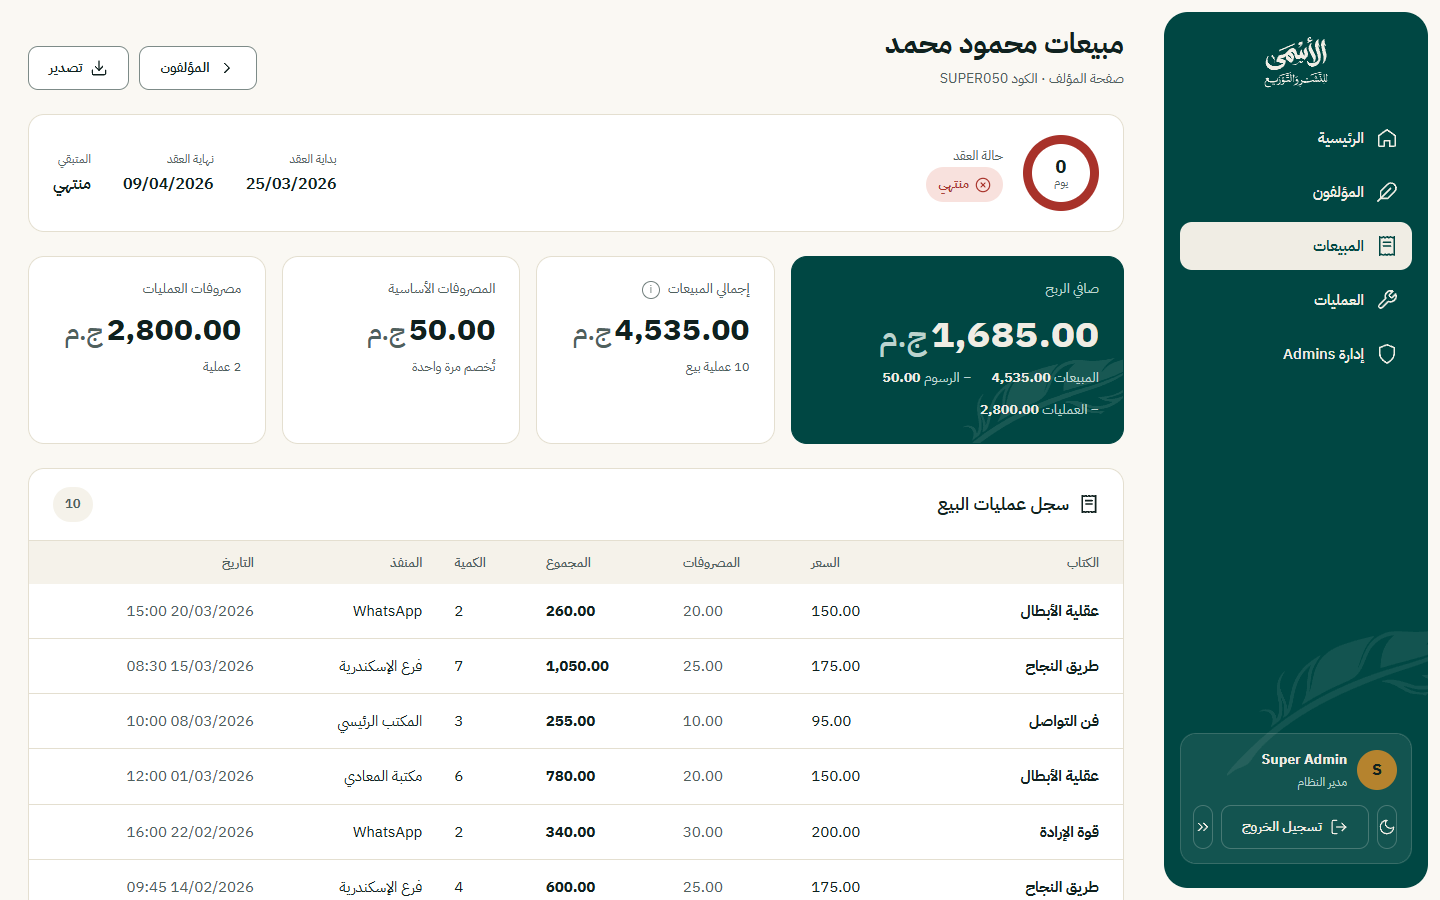
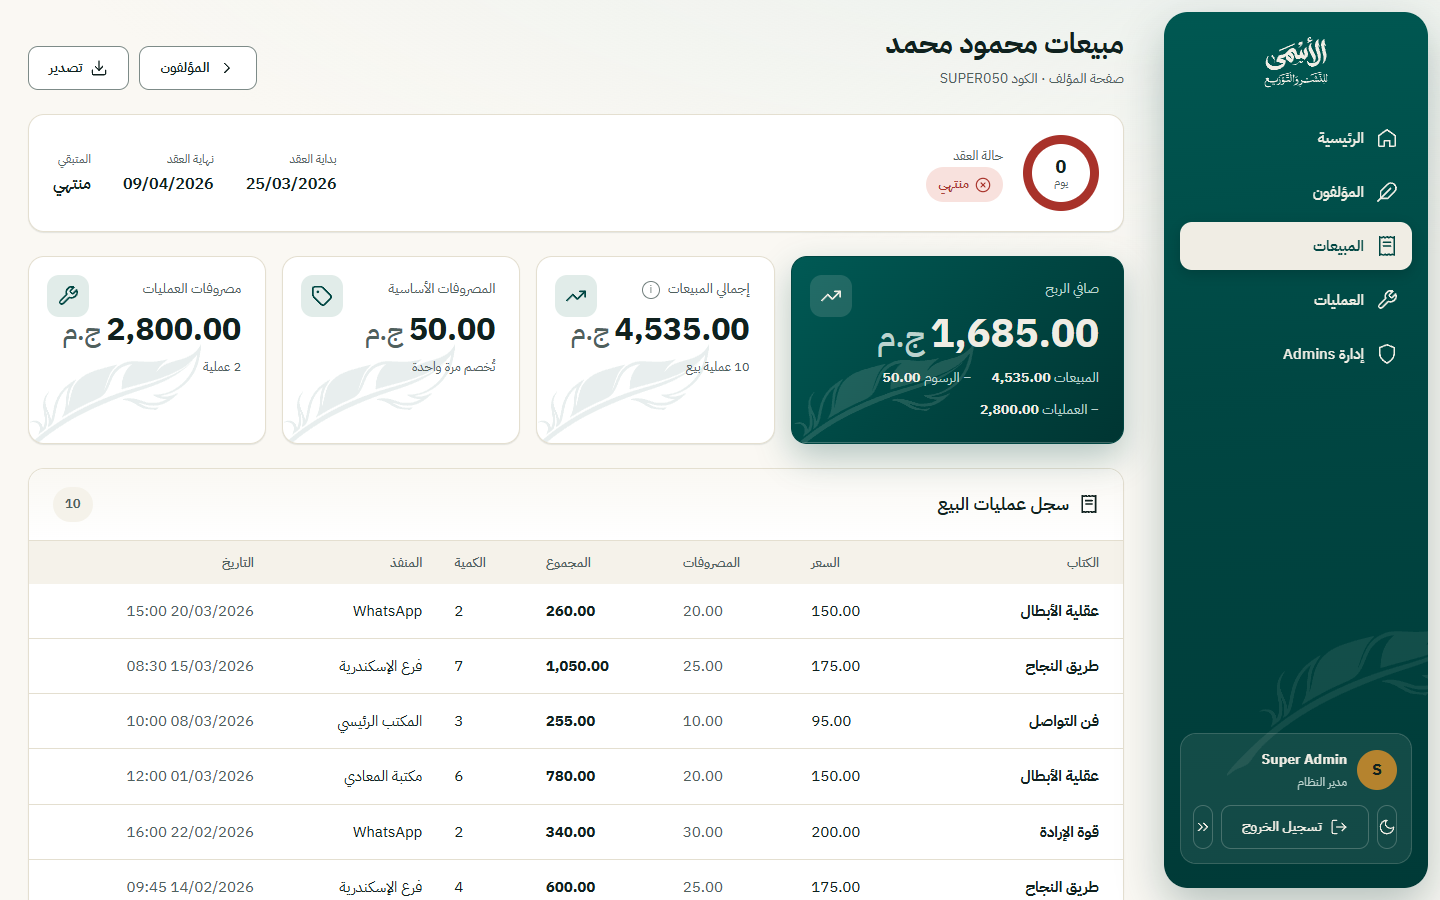
Fix mobile layout regressions, calmer dark mode and KPI feather watermark
- Login: narrow screens stacked correctly again (a later grid rule had
  overridden the mobile breakpoint).
- Phones: KPI cards no longer overflow or swipe sideways; values wrap with
  the currency; list cards are separate raised cards with spacing.
- Dark mode uses a neutral graphite palette with a faint green tint
  instead of saturated green surfaces.
- Every KPI card shows a transparent feather watermark at the bottom-left.
- Hero/loss KPI cards keep their gradient.
- Refresh README screenshots.

diff --git a/AlAsma.Admin/wwwroot/css/app.css b/AlAsma.Admin/wwwroot/css/app.css
@@ -24,7 +24,8 @@ table { border-collapse: collapse; width: 100%; }
 .mono { font-family: ui-monospace, "Cascadia Mono", Consolas, monospace; }
 .nowrap { white-space: nowrap; }
 .center { text-align: center; }
-.cur { font-size: .8em; font-weight: 500; color: var(--ink-muted); margin-inline-start: 4px; }
+.cur { font-size: .8em; font-weight: 500; color: var(--ink-muted); margin-inline-start: 4px; white-space: nowrap; }
+.kpi__value .cur { margin-inline-start: 0; }
 
 /* ---------- Shell ---------- */
 .app__main { min-height: 100vh; padding: 24px 28px 48px; margin-inline-start: calc(var(--sidebar-w) + 24px); }
@@ -180,7 +181,7 @@ form.inline { display: inline; margin: 0; }
 .kpi-grid--six { grid-template-columns: repeat(3, minmax(0, 1fr)); }
 .kpi { background: var(--surface); border: 1px solid var(--line); border-radius: var(--radius-lg); padding: 20px 24px; display: flex; flex-direction: column; gap: 8px; min-width: 0; }
 .kpi__label { font-size: 14px; color: var(--ink-muted); display: flex; align-items: center; gap: 8px; }
-.kpi__value { font: var(--text-kpi); font-variant-numeric: tabular-nums; white-space: nowrap; }
+.kpi__value { font: var(--text-kpi); font-variant-numeric: tabular-nums; display: flex; flex-wrap: wrap; align-items: baseline; gap: 0 6px; }
 .kpi__note { font-size: 13px; color: var(--ink-muted); }
 .kpi__note--ok { color: var(--success-ink); }
 .kpi__note--bad { color: var(--danger-ink); }
@@ -500,3 +501,82 @@ input:-webkit-autofill, input:-webkit-autofill:hover, input:-webkit-autofill:foc
   .auth__slogan { font-size: 20px; }
   .auth__features { display: none; }
 }
+
+/* ============================================================
+   Feedback pass (mobile fit, calmer dark mode, feather watermark)
+   ============================================================ */
+
+/* --- Feather watermark behind every KPI card (bottom-left, transparent) --- */
+.kpi { background-image: url("../images/brand/kpi-watermark-light.svg"); background-repeat: no-repeat; background-position: left -26px bottom -30px; background-size: 200px auto; overflow: hidden; }
+:root[data-theme="dark"] .kpi { background-image: url("../images/brand/kpi-watermark-dark.svg"); }
+.kpi__mark { inset-inline-start: auto; inset-inline-end: -26px; bottom: -34px; width: 210px; opacity: .13; }
+
+/* --- Calmer dark mode: neutral graphite with a faint green tint instead of saturated green --- */
+:root[data-theme="dark"] {
+  --bg: #0e1312;
+  --surface: #161d1b;
+  --surface-sunken: #1c2523;
+  --line: #27322f;
+  --line-strong: #566863;
+  --chip-bg: #1f2c29;
+  --ink: #ecebe3;
+  --ink-muted: #aab6b1;
+  --ink-subtle: #8d9a95;
+  --success-soft: #12312a;
+  --danger-soft: #3b1f1d;
+  --accent-soft: #332d1d;
+}
+:root[data-theme="dark"] body { background-image: radial-gradient(1000px 340px at 85% -140px, rgba(48,105,99,.14), transparent); }
+:root[data-theme="dark"] .sidebar { background: linear-gradient(175deg, #123430 0%, #0d2623 55%, #0a1d1b 100%); box-shadow: 0 18px 44px rgba(0,0,0,.45); }
+:root[data-theme="dark"] .kpi--hero { background: linear-gradient(135deg, #0d5a54 0%, #09433f 55%, #06322f 100%); border-color: transparent; }
+:root[data-theme="dark"] .card__head { background: linear-gradient(180deg, var(--surface-sunken), var(--surface)); }
+:root[data-theme="dark"] .table th { background: var(--surface-sunken); }
+:root[data-theme="dark"] .drawer, :root[data-theme="dark"] .modal__panel, :root[data-theme="dark"] .sheet { background: var(--surface); }
+:root[data-theme="dark"] .auth__panel { background: radial-gradient(900px 600px at 20% 10%, rgba(48,105,99,.18), transparent 70%), var(--bg); }
+:root[data-theme="dark"] .auth__brand { background: radial-gradient(900px 700px at 78% 18%, #0b5f58 0%, transparent 60%), linear-gradient(160deg, #0b4d48 0%, #073a36 50%, #04282a 100%); }
+:root[data-theme="dark"] .auth__card { box-shadow: 0 24px 60px rgba(0,0,0,.5); }
+
+/* --- Login: stack on narrow screens (this override must come after the base .auth rule) --- */
+@media (max-width: 859px) {
+  .auth { grid-template-columns: 1fr; grid-template-rows: auto 1fr; }
+  .auth__brand-mark { width: 420px; inset-inline-end: -140px; top: -20px; }
+  .auth__brand-inner { gap: 10px; }
+  .auth__card { width: 100%; max-width: 480px; margin-inline: auto; }
+}
+
+/* --- Phones: no horizontal swipe rows; every card fits; separate list cards --- */
+@media (max-width: 639px) {
+  .kpi-grid--swipe { display: grid; overflow: visible; margin-inline: 0; padding-inline: 0; scroll-snap-type: none; gap: 12px; }
+  .kpi-grid--swipe .kpi { flex: initial; }
+  .kpi-grid, .kpi-grid--hero, .kpi-grid--swipe { grid-template-columns: repeat(2, minmax(0, 1fr)); }
+  .kpi-grid--hero > .kpi--hero { grid-column: 1 / -1; }
+  .kpi-grid--hero > .kpi:nth-child(4):last-child { grid-column: 1 / -1; }
+  .kpi { padding: 16px; gap: 6px; background-size: 150px auto; background-position: left -22px bottom -26px; }
+  .kpi__icon { width: 34px; height: 34px; inset-block-start: 14px; inset-inline-end: 14px; border-radius: 10px; }
+  .kpi__icon .icon { width: 18px; height: 18px; }
+  .kpi__label { font-size: 13px; padding-inline-end: 40px; line-height: 1.5; }
+  .kpi__value { font-size: 21px; line-height: 1.3; }
+  .kpi--hero .kpi__value { font-size: 30px; }
+  .kpi__note { font-size: 12px; line-height: 1.5; }
+  .page-head__actions { width: 100%; }
+  .page-head__actions > .btn, .page-head__actions > .menu { flex: 1 1 auto; }
+  .page-head__actions > .menu > .btn { width: 100%; }
+  .toolbar { gap: 8px; }
+  .toolbar__search { flex-basis: 100%; max-width: none; }
+
+  .card:has(> .mcards) { background: transparent; border: 0; box-shadow: none; }
+  .card:has(> .mcards) > .card__head, .card:has(> .mcards) > .toolbar { background: var(--surface); border: 1px solid var(--line); border-radius: var(--radius-lg); margin-bottom: 12px; box-shadow: var(--shadow-sm); }
+  .mcards { gap: 14px; }
+  .mcard { background: var(--surface); border: 1px solid var(--line); border-radius: 18px; box-shadow: var(--shadow-sm); padding: 16px; gap: 14px; border-bottom: 1px solid var(--line); }
+  .mcard:last-child { border-bottom: 1px solid var(--line); }
+  .mcard__meta { padding: 12px 0; border-block: 1px dashed var(--line); }
+  .card:has(> .mcards) > .card__foot { background: var(--surface); border: 1px solid var(--line); border-radius: var(--radius-lg); margin-top: 12px; }
+  .card:has(> .mcards) > .empty { background: var(--surface); border: 1px solid var(--line); border-radius: var(--radius-lg); }
+}
+
+/* hero / loss cards keep their gradient (must be more specific than the watermark rule on .kpi) */
+.kpi.kpi--hero { background-image: linear-gradient(135deg, #005a55 0%, var(--surface-brand) 48%, #003532 100%); background-size: auto; background-position: center; }
+.kpi.kpi--loss { background-image: linear-gradient(135deg, #bd3f36, var(--danger-fill)); }
+:root[data-theme="dark"] .kpi.kpi--hero { background-image: linear-gradient(135deg, #0d5a54 0%, #09433f 55%, #06322f 100%); }
+:root[data-theme="dark"] .kpi.kpi--loss { background-image: linear-gradient(135deg, #8f3a33, #6e2a25); }
+@media (max-width: 639px) { .mcard { gap: 12px; } .mcard__meta { padding: 10px 0; } .kpi.kpi--hero { background-size: auto; background-position: center; } }
